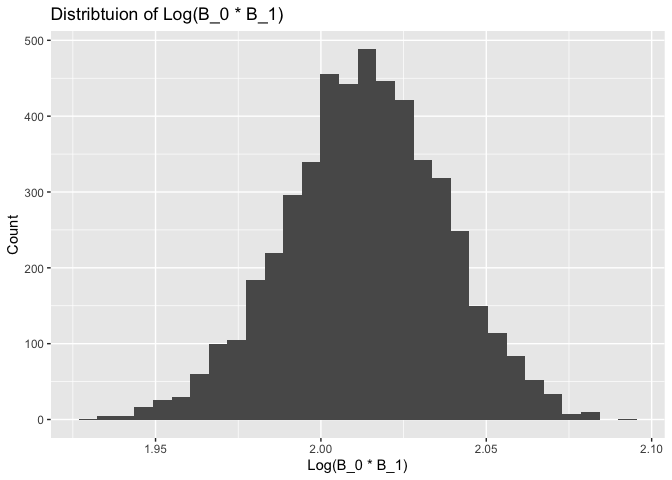
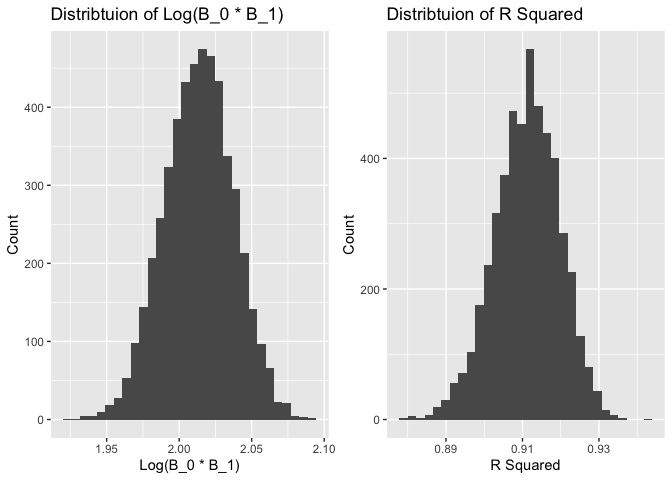
Wrote 95% CI interpretation. Explained how I built my final model. Fixed placement of titles on document.

diff --git a/p8105_hw6_amh2325.md b/p8105_hw6_amh2325.md
@@ -13,14 +13,14 @@ library(rvest)
 library(tidyverse)
 ```
 
-    ## ── Attaching packages ─────────────────────────────────────────────────────────────── tidyverse 1.2.1 ──
+    ## ── Attaching packages ─────────────────────────────────────────────────────────────────────────────────────────────── tidyverse 1.2.1 ──
 
     ## ✔ ggplot2 3.2.1     ✔ purrr   0.3.2
     ## ✔ tibble  2.1.3     ✔ dplyr   0.8.3
     ## ✔ tidyr   1.0.0     ✔ stringr 1.4.0
     ## ✔ readr   1.3.1     ✔ forcats 0.4.0
 
-    ## ── Conflicts ────────────────────────────────────────────────────────────────── tidyverse_conflicts() ──
+    ## ── Conflicts ────────────────────────────────────────────────────────────────────────────────────────────────── tidyverse_conflicts() ──
     ## ✖ dplyr::filter()         masks stats::filter()
     ## ✖ readr::guess_encoding() masks rvest::guess_encoding()
     ## ✖ dplyr::lag()            masks stats::lag()
@@ -71,6 +71,8 @@ birthweight = read_csv("./data/birthweight.csv")
 
     ## See spec(...) for full column specifications.
 
+## Cleaning data
+
 ``` r
 birthweight_clean = birthweight %>% 
   janitor::clean_names() %>% 
@@ -93,16 +95,8 @@ characteristics at the time of delivery would affect the baby’s weight
 at birth. Thus, in building my model I analyzed baby’s sex, head
 circumference, baby length, gestational age, and presence of
 malformations that would affect weight. Additionally, I analyzed
-mother’s weight, age at delivery, and height.
-
-  - say that u removed some bc it did not increase in the R^2
-  - say looked at all of them first and then chose significant ones
-  - say teh R^2 value
-  - reisduals ? predictions?
-  - removed malform bc not
-significant
-
-<!-- end list -->
+mother’s weight, age at delivery, and
+height.
 
 ``` r
 fit_bwt_model = lm(bwt_grams ~ babysex + bhead + blength + mom_weight_lbs + ges_age_weeks, data = birthweight_clean)
@@ -131,8 +125,23 @@ fit_bwt_model %>%
 | --------: | ------------: | -------: | --------: | ------: | -: | ---------: | -------: | -------: | --------: | ----------: |
 | 0.6963589 |     0.6960087 | 282.3782 |  1988.803 |       0 |  6 | \-30661.01 | 61336.02 | 61380.65 | 345741660 |        4336 |
 
-Show a plot of model residuals against fitted values – use
-add\_predictions and add\_residuals in making this plot.
+In my final model, I chose to include five final variables that I deemed
+to be clinically significant in predicting baby weight at birth:
+`babysex`, `bhead`, `blength`, `mom_weight_lbs`, and `ges_age_weeks`.I
+did not include `malform` (malformations that would affect weight)
+because its p-value was not statistically significant. However, for all
+other variables included in the final model above, they are
+statistically significant. I also analyzed the variables for `mom_age`
+and `mom_height` in the model, but they did not affect the R squared
+value (did not increase or decrease). I believe the five variables
+included in `fit_bwt_model` allow the model to be parsimonious while
+optimizing R^2. The value of R^2 is 0.6964, meaning 69.64% of the
+variability in birthweight is explained by: a baby’s sex, baby’s head
+circumference at birth, baby’s length at birth, mother’s weight at
+delivery, and gestational age in
+weeks.
+
+## Show a plot of model residuals against fitted values – use add\_predictions and add\_residuals in making this plot.
 
 ``` r
 birthweight_clean %>% 
@@ -174,6 +183,11 @@ sample_model_1 %>%
 | --------: | ------------: | -------: | --------: | ------: | -: | ---------: | -------: | -------: | --------: | ----------: |
 | 0.5768894 |     0.5766943 | 333.2174 |  2958.001 |       0 |  3 | \-31381.32 | 62770.64 | 62796.14 | 481775846 |        4339 |
 
+The R^2 value in `sample_model1` (0.5769) is less than in
+`fit_bwt_model`. Thus, the variability in birthweight is better
+explained by
+`fit_bwt_model`.
+
 ## Model using head circumference, length, sex, and all interactions (including the three-way interaction) between these
 
 ``` r
@@ -204,6 +218,10 @@ sample_model_2 %>%
 | r.squared | adj.r.squared |    sigma | statistic | p.value | df |    logLik |      AIC |      BIC |  deviance | df.residual |
 | --------: | ------------: | -------: | --------: | ------: | -: | --------: | -------: | -------: | --------: | ----------: |
 |  0.684876 |      0.684367 | 287.7344 |  1345.616 |       0 |  8 | \-30741.6 | 61501.19 | 61558.58 | 358816655 |        4334 |
+
+The R^2 value in `sample_model1` (0.6849) is less than in
+`fit_bwt_model` (although the values are very similar). The variability
+in birthweight is better explained by `fit_bwt_model`.
 
 ## Cross Validation
 
@@ -236,6 +254,10 @@ cv_df %>%
 ```
 
 ![](p8105_hw6_amh2325_files/figure-gfm/unnamed-chunk-8-1.png)<!-- -->
+
+Through cross validation, we find that the first model (fit\_bwt\_model)
+has the lowest Root Mean Squared Error of all three models, indicating
+this model would be a better fit for this data.
 
 ## Problem 2
 
@@ -344,34 +366,20 @@ plot_log_estimate = bootstrap_results1 %>%
     x = "Log(B_0 * B_1)", 
     title = "Distribtuion of Log(B_0 * B_1)"
   )
-plot_log_estimate
-```
 
-    ## `stat_bin()` using `bins = 30`. Pick better value with `binwidth`.
-
-![](p8105_hw6_amh2325_files/figure-gfm/unnamed-chunk-13-1.png)<!-- -->
-
-``` r
 plot_r_squared = bootstrap_results2 %>% 
   ggplot(aes(x = r.squared)) + geom_histogram() + labs(
     y = "Count", 
     x = "R Squared", 
     title = "Distribtuion of R Squared ")
-plot_r_squared 
-```
 
-    ## `stat_bin()` using `bins = 30`. Pick better value with `binwidth`.
-
-![](p8105_hw6_amh2325_files/figure-gfm/unnamed-chunk-13-2.png)<!-- -->
-
-``` r
 plot_log_estimate + plot_r_squared 
 ```
 
     ## `stat_bin()` using `bins = 30`. Pick better value with `binwidth`.
     ## `stat_bin()` using `bins = 30`. Pick better value with `binwidth`.
 
-![](p8105_hw6_amh2325_files/figure-gfm/unnamed-chunk-13-3.png)<!-- -->
+![](p8105_hw6_amh2325_files/figure-gfm/unnamed-chunk-13-1.png)<!-- -->
 Both distributions above appear to be relatively symmetric. Thus, the
 left and right hand sides seem to nearly mirror each other within the
 histograms. There is very slight left skew present in the histogram of
@@ -391,19 +399,17 @@ quantile(pull(bootstrap_results1, log_estimate), c(.0275, .975))
 ```
 
     ##    2.75%    97.5% 
-    ## 1.965532 2.059371
+    ## 1.968122 2.058966
 
 ``` r
-# 2.75% = 1.9638   97.5% = 2.0592
-
 quantile(pull(bootstrap_results2, r.squared), c(.0275, .975)) 
 ```
 
-    ##     2.75%     97.5% 
-    ## 0.8945974 0.9270184
+    ##    2.75%    97.5% 
+    ## 0.893864 0.926714
 
-``` r
-# 2.75% = 0.8946   97.5% = 0.9273
-```
+From the results above, we see that the 95% confidence interval for the
+estimate of the log(β̂ 0∗β̂1) is between 1.967 and 2.059.
 
-From the results above, we find that the confiden
+From the results above, we see that the 95% confidence interval for the
+estimate of the log(β̂ 0∗β̂1) is between 0.895 and 0.927.
